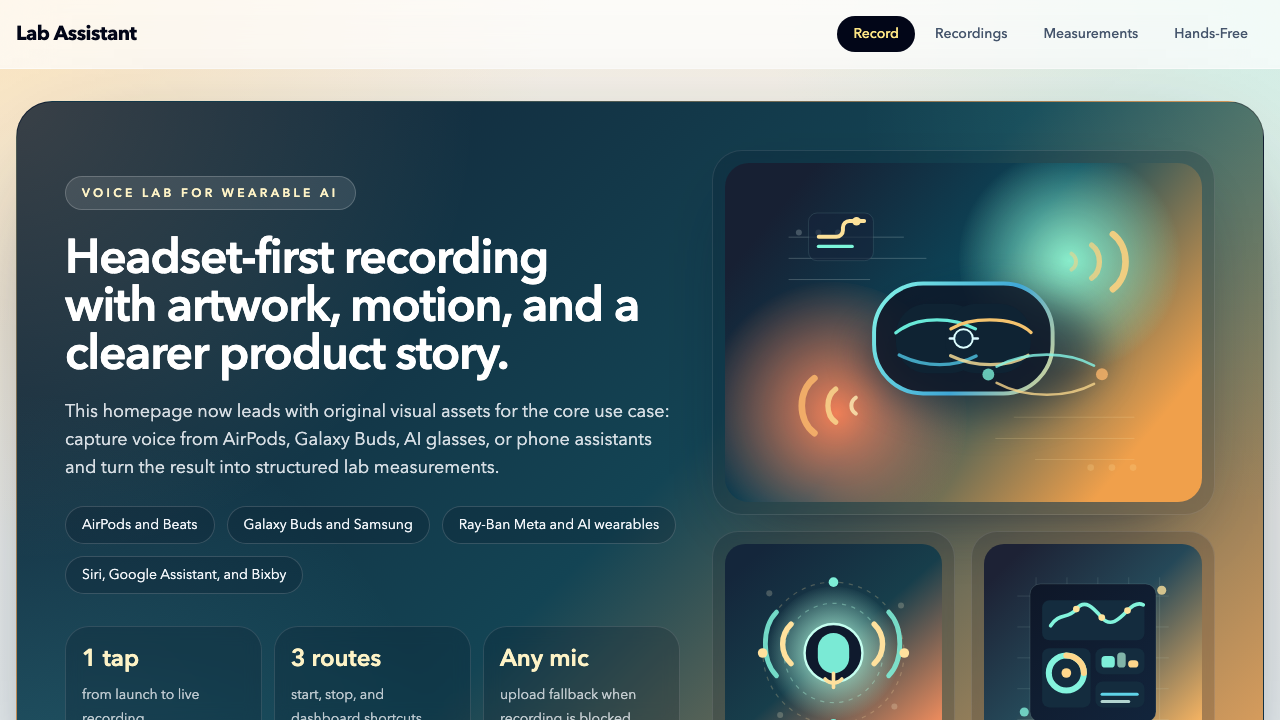
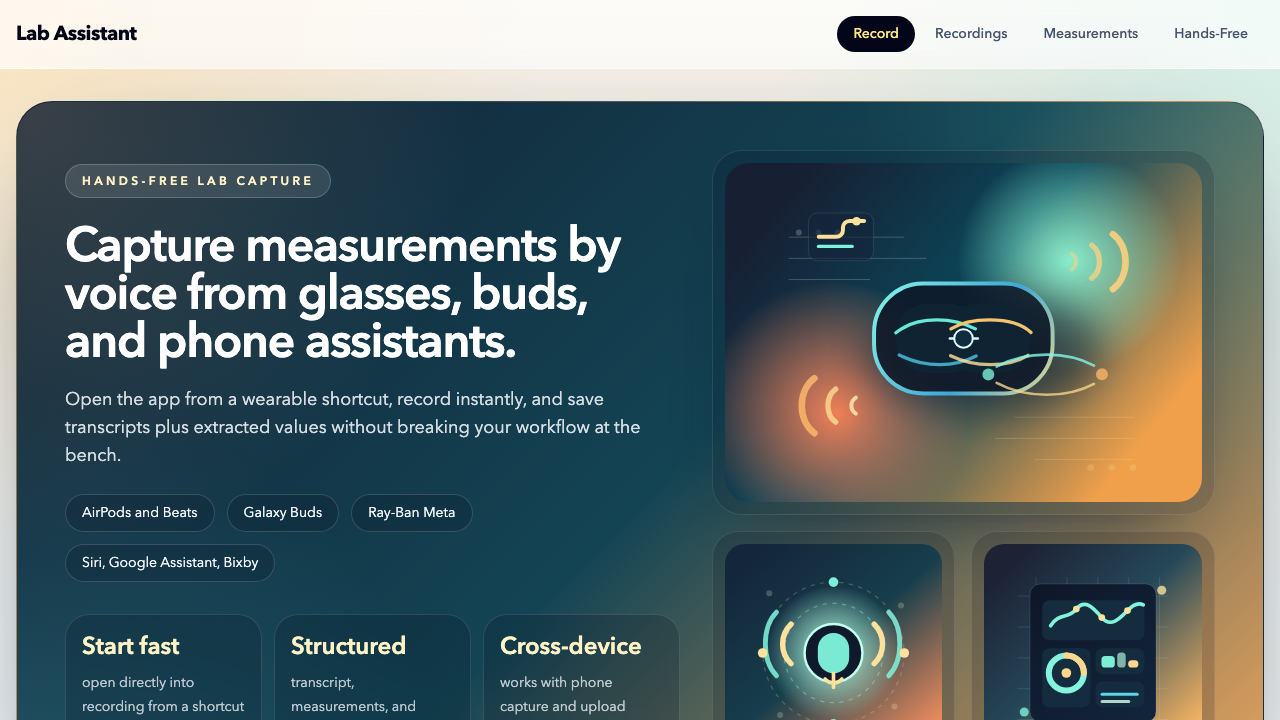
Refine homepage copy and repo preview

diff --git a/frontend/src/pages/UploadPage.jsx b/frontend/src/pages/UploadPage.jsx
@@ -44,15 +44,15 @@ function sendStopSignal() {
 
 const HERO_TAGS = [
   "AirPods and Beats",
-  "Galaxy Buds and Samsung",
-  "Ray-Ban Meta and AI wearables",
-  "Siri, Google Assistant, and Bixby",
+  "Galaxy Buds",
+  "Ray-Ban Meta",
+  "Siri, Google Assistant, Bixby",
 ];
 
 const HERO_STATS = [
-  { value: "1 tap", label: "from launch to live recording" },
-  { value: "3 routes", label: "start, stop, and dashboard shortcuts" },
-  { value: "Any mic", label: "upload fallback when recording is blocked" },
+  { value: "Start fast", label: "open directly into recording from a shortcut or wearable flow" },
+  { value: "Structured", label: "transcript, measurements, and history stay in one place" },
+  { value: "Cross-device", label: "works with phone capture and upload fallback when needed" },
 ];
 
 const WORKFLOW_CARDS = [
@@ -289,15 +289,14 @@ export default function UploadPage({ onUploaded }) {
         <div className="relative grid items-center gap-8 lg:grid-cols-[minmax(0,1.1fr)_minmax(320px,0.9fr)]">
           <div className="max-w-2xl">
             <div className="inline-flex rounded-full border border-white/20 bg-white/10 px-4 py-2 text-xs font-semibold uppercase tracking-[0.28em] text-amber-100">
-              Voice Lab for wearable AI
+              Hands-free lab capture
             </div>
             <h2 className="mt-6 max-w-xl text-4xl font-semibold tracking-tight text-white sm:text-5xl">
-              Headset-first recording with artwork, motion, and a clearer product story.
+              Capture measurements by voice from glasses, buds, and phone assistants.
             </h2>
             <p className="mt-5 max-w-2xl text-base leading-7 text-slate-100/88 sm:text-lg">
-              This homepage now leads with original visual assets for the core use case: capture voice from
-              AirPods, Galaxy Buds, AI glasses, or phone assistants and turn the result into structured lab
-              measurements.
+              Open the app from a wearable shortcut, record instantly, and save transcripts plus extracted
+              values without breaking your workflow at the bench.
             </p>
 
             <div className="mt-6 flex flex-wrap gap-3">
@@ -326,28 +325,28 @@ export default function UploadPage({ onUploaded }) {
 
           <div className="grid gap-4">
             <div className="overflow-hidden rounded-[30px] border border-white/10 bg-slate-950/16 p-3 shadow-[0_26px_70px_-42px_rgba(15,23,42,0.92)] backdrop-blur-sm">
-              <img
-                src={voiceLabHero}
-                alt="Abstract generated artwork of smart glasses, sound waves, and audio controls"
-                className="h-full w-full rounded-[24px] object-cover"
-              />
-            </div>
-            <div className="grid gap-4 sm:grid-cols-2">
-              <div className="overflow-hidden rounded-[26px] border border-white/10 bg-slate-950/16 p-3 backdrop-blur-sm">
                 <img
-                  src={assistantOrbit}
-                  alt="Generated microphone and assistant orbit artwork"
-                  className="h-full w-full rounded-[20px] object-cover"
+                  src={voiceLabHero}
+                  alt="Illustration of smart glasses, sound waves, and voice controls"
+                  className="h-full w-full rounded-[24px] object-cover"
                 />
               </div>
-              <div className="overflow-hidden rounded-[26px] border border-white/10 bg-slate-950/16 p-3 backdrop-blur-sm">
-                <img
-                  src={measurementGrid}
-                  alt="Generated dashboard artwork with waveform and measurement panels"
-                  className="h-full w-full rounded-[20px] object-cover"
-                />
+              <div className="grid gap-4 sm:grid-cols-2">
+                <div className="overflow-hidden rounded-[26px] border border-white/10 bg-slate-950/16 p-3 backdrop-blur-sm">
+                  <img
+                    src={assistantOrbit}
+                    alt="Illustration of microphone and assistant activation"
+                    className="h-full w-full rounded-[20px] object-cover"
+                  />
+                </div>
+                <div className="overflow-hidden rounded-[26px] border border-white/10 bg-slate-950/16 p-3 backdrop-blur-sm">
+                  <img
+                    src={measurementGrid}
+                    alt="Illustration of measurement dashboard panels"
+                    className="h-full w-full rounded-[20px] object-cover"
+                  />
+                </div>
               </div>
-            </div>
           </div>
         </div>
       </section>

diff --git a/README.md b/README.md
@@ -5,7 +5,7 @@ Voice-powered measurement tracking for Ray-Ban Meta smart glasses.
 Speak your lab measurements hands-free — Lab Assistant transcribes audio with Whisper, automatically extracts numeric values and units, and stores everything in a searchable database.
 
 <p align="center">
-  <img src="docs/repo-homepage-preview.png" alt="Lab Assistant homepage preview with hands-free recording hero and assistant artwork" width="1100" />
+  <img src="docs/repo-homepage-preview.png" alt="Lab Assistant homepage preview with hands-free recording and wearable shortcuts" width="1100" />
 </p>
 
 ## Features
